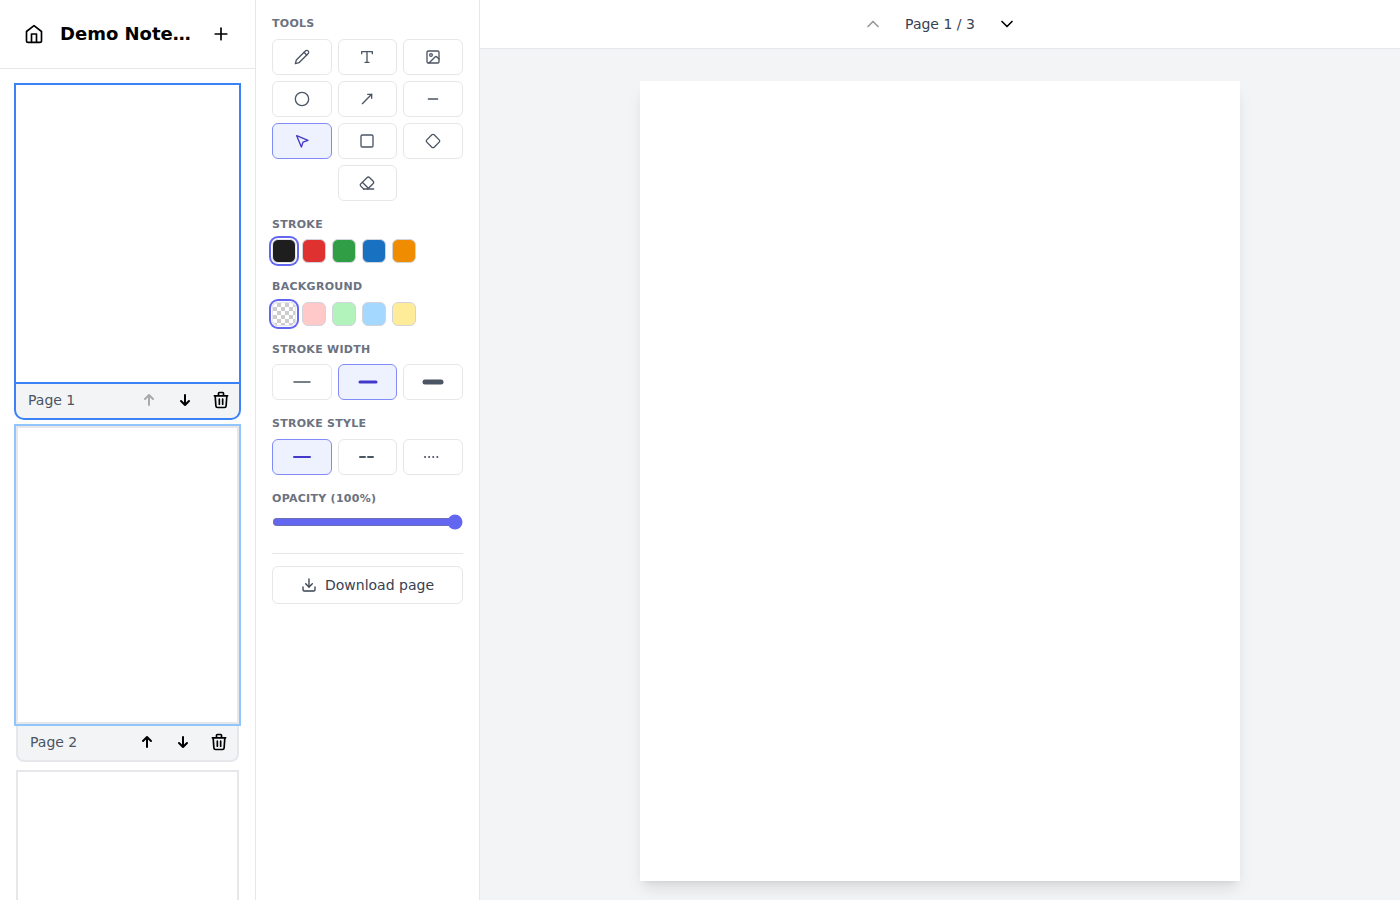
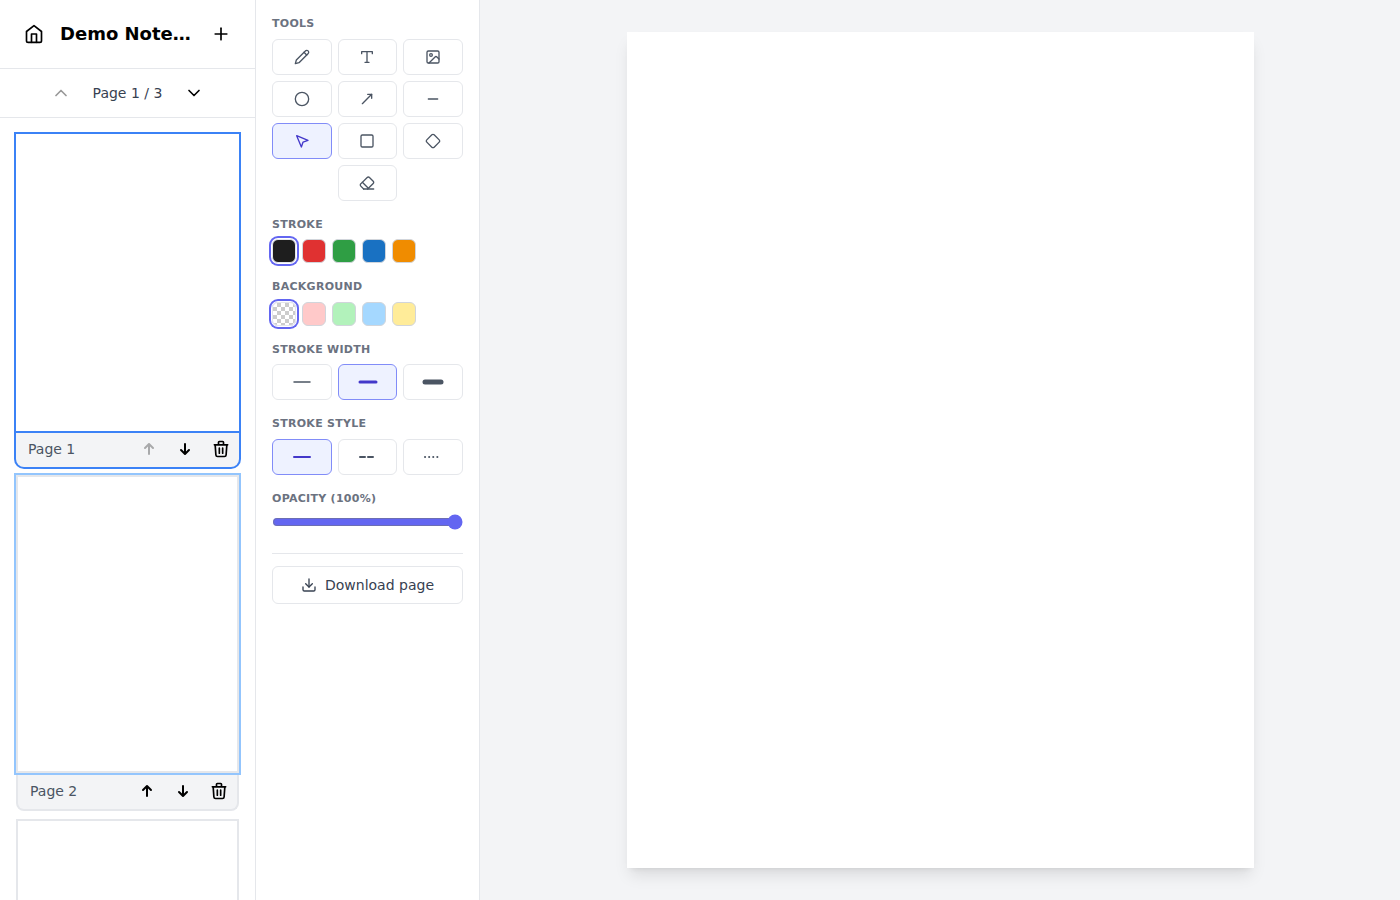
Move page-number nav from top bar into the sidebar
The top navigation bar sat above the canvas and threw off the canvas
area's height calculation, introducing a page scroll (per review on #9).
Move the "Page X / N" indicator and its up/down navigation into the left
sidebar, just under the header, so nothing above the canvas can offset
the page-height computation. The canvas column is back to its original
single-child layout.

Claude-Session: https://claude.ai/code/session_01M6VdjEZY35h7x9wHv1PyAv

diff --git a/src/components/NotebookEditor.tsx b/src/components/NotebookEditor.tsx
@@ -568,6 +568,30 @@ export function NotebookEditor({ pages, onPagesChange, onBack, notebookName }: N
             </div>
           </div>
         </div>
+        {/* Page navigation: current page number + up/down between pages. Lives
+            here in the sidebar (not above the canvas) so it doesn't affect the
+            canvas area's height calculation. */}
+        <div className="flex items-center justify-center gap-4 px-4 py-2 border-b border-gray-200">
+          <button
+            onClick={goToPreviousPage}
+            disabled={currentPageIndex === 0}
+            title="Previous page"
+            className="p-1.5 rounded hover:bg-gray-100 disabled:opacity-40 disabled:cursor-not-allowed"
+          >
+            <ChevronUp className="w-5 h-5" />
+          </button>
+          <span className="text-sm font-medium text-gray-700 tabular-nums select-none">
+            Page {currentPageIndex + 1} / {pages.length}
+          </span>
+          <button
+            onClick={goToNextPage}
+            disabled={currentPageIndex === pages.length - 1}
+            title="Next page"
+            className="p-1.5 rounded hover:bg-gray-100 disabled:opacity-40 disabled:cursor-not-allowed"
+          >
+            <ChevronDown className="w-5 h-5" />
+          </button>
+        </div>
         {/* Previews Container */}
         <div className="flex-1 overflow-y-auto p-4">
           {pages.map((page, index) => (
@@ -603,31 +627,10 @@ export function NotebookEditor({ pages, onPagesChange, onBack, notebookName }: N
         onDownload={handleDownload}
       />
 
-      {/* Main canvas with a top page-navigation bar */}
-      <div className="flex-1 flex flex-col">
-        {/* Top bar: current page number + up/down navigation between pages. */}
-        <div className="flex items-center justify-center gap-4 py-2 bg-white border-b border-gray-200">
-          <button
-            onClick={goToPreviousPage}
-            disabled={currentPageIndex === 0}
-            title="Previous page"
-            className="p-1.5 rounded hover:bg-gray-100 disabled:opacity-40 disabled:cursor-not-allowed"
-          >
-            <ChevronUp className="w-5 h-5" />
-          </button>
-          <span className="text-sm font-medium text-gray-700 tabular-nums select-none">
-            Page {currentPageIndex + 1} / {pages.length}
-          </span>
-          <button
-            onClick={goToNextPage}
-            disabled={currentPageIndex === pages.length - 1}
-            title="Next page"
-            className="p-1.5 rounded hover:bg-gray-100 disabled:opacity-40 disabled:cursor-not-allowed"
-          >
-            <ChevronDown className="w-5 h-5" />
-          </button>
-        </div>
-
+      {/* Main canvas. Page navigation lives in the sidebar (see the nav bar
+          under the sidebar header) so nothing above the canvas can offset the
+          page-height calculation or introduce a scroll. */}
+      <div className="flex-1 flex">
         {/* A4 Canvas */}
         <div
           ref={canvasAreaRef}
